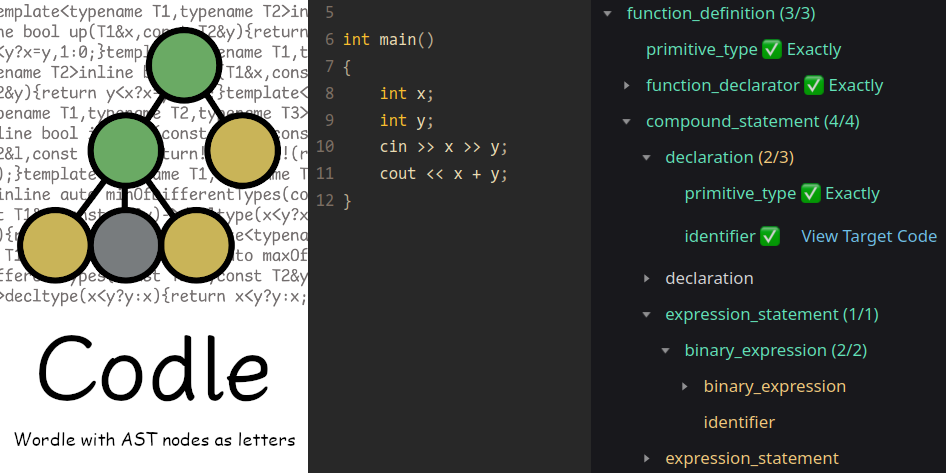
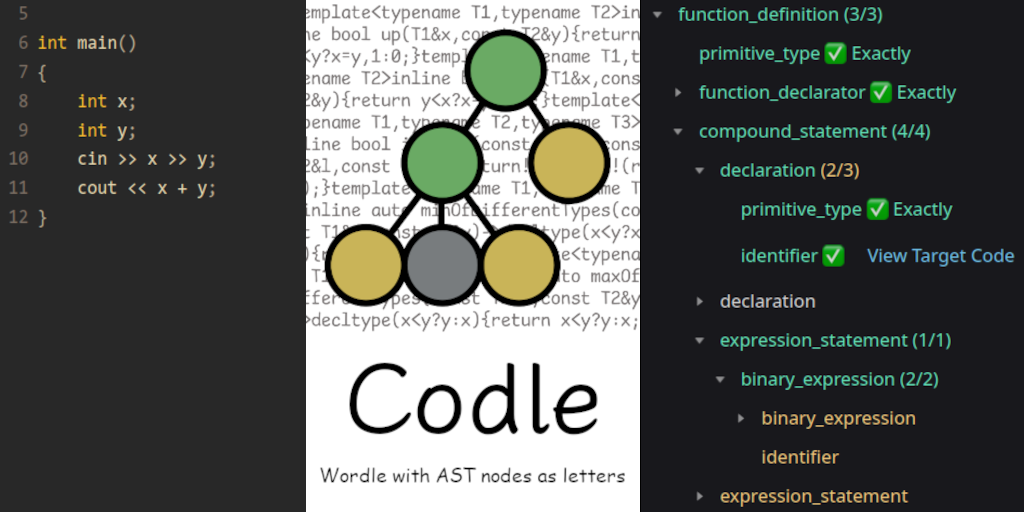
feat: move text of og-image to middel & add size props in og:image

diff --git a/index.html b/index.html
@@ -28,6 +28,8 @@
     <meta property="og:type" content="website" />
     <meta property="og:url" content="https://codle.ouuan.moe" />
     <meta property="og:image" content="https://codle.ouuan.moe/og-image.png" />
+    <meta property="og:image:width" content="1024" />
+    <meta property="og:image:height" content="512" />
 
     <title>Codle | Wordle with AST nodes as letters</title>
   </head>
